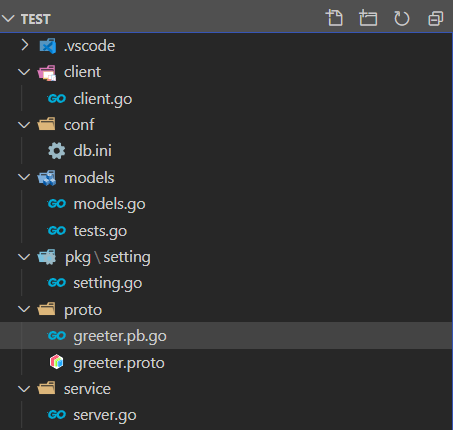
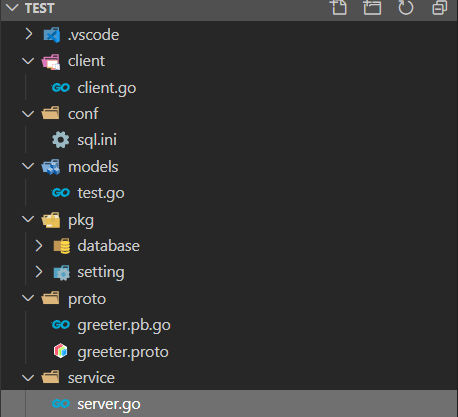
update

Changed region(s): [[0.0, 0.0, 1.0, 1.0]]

diff --git a/06.后台/04.go/01.windows环境/04.go之集成/02.go之gorm+go-ini.md b/06.后台/04.go/01.windows环境/04.go之集成/02.go之gorm+go-ini.md
@@ -69,7 +69,7 @@ func mapTo(section string, v interface{}) {
 
 </details>
 
-> models.go
+> mysql.go
 
 <details>
 <summary>代码</summary>
@@ -87,32 +87,33 @@ import (
 )
 
 
-var db *gorm.DB
+var Eloquent *gorm.DB
 
 func init() {
 	var err error
 
 	//连接mysql
-	db, err = gorm.Open(setting.DatabaseSetting.Type, fmt.Sprintf("%s:%s@tcp(%s)/%s?charset=utf8&parseTime=True&loc=Local",
+	Eloquent, err = gorm.Open(setting.DatabaseSetting.Type, fmt.Sprintf("%s:%s@tcp(%s)/%s?charset=utf8&parseTime=True&loc=Local",
 		setting.DatabaseSetting.User,
 		setting.DatabaseSetting.Password,
 		setting.DatabaseSetting.Host,
 		setting.DatabaseSetting.Name))
 	if err != nil {
-		log.Fatalf("models.Setup err: %v", err)
+		log.Fatalf("mysql connect error : %v", err)
+	}
+
+	if Eloquent.Error != nil {
+		log.Fatalf("database error: %v", Eloquent.Error)
 	}
 
 }
 
-func CloseDB() {
-	defer db.Close()
-}
 
 ```
 
 </details>
 
-> tests.go
+> test.go
 
 <details>
 <summary>代码</summary>
@@ -123,23 +124,29 @@ package models
 import (
 	"github.com/jinzhu/gorm"
 	"time"
+	orm "test/pkg/database"
 )
 
 type Test struct {
 	gorm.Model
-	Name string
+	Name string 
 	Age int
 	Birthday time.Time
 }
 
-func GetTest(name string) (*Test, error) {
+
+/**
+*作用：通过年龄查询tests表的数据
+*/
+func GetTest(age int) (*Test, error) {
 	var test Test
-	err := db.Where("Name =?", name).First(&test).Error
+	err := orm.Eloquent.Where("Age =?", age).First(&test).Error
 	if err != nil && err != gorm.ErrRecordNotFound {
 		return nil, err
 	}
 	return &test, nil
 }
+
 
 ```
 
@@ -156,11 +163,12 @@ package main
 import (
     "log"
     "fmt"
-    "test/models"
+	"test/models"
+	orm "test/pkg/database"
 )
 func main() {
-
-  test,err := models.GetTest("小猪")
+  defer orm.Eloquent.Close()
+  test,err := models.GetTest(18)
   //查询一条数据
   if err != nil {
     log.Fatalf("查询数据失败: %v",err)
@@ -180,10 +188,6 @@ func main() {
 ```shell
 
 set GO111MODULE=on
-set GOPROXY=https://goproxy.io
-
-go mod init test
-go mod tidyset GO111MODULE=on
 set GOPROXY=https://goproxy.io
 
 go mod init test

diff --git a/06.后台/04.go/01.windows环境/04.go之集成/03.go之gorm+go-ini+grpc.md b/06.后台/04.go/01.windows环境/04.go之集成/03.go之gorm+go-ini+grpc.md
@@ -4,9 +4,7 @@
 
 ***
 
-> 注意：本教程基于04.gorm之查询表数据
->       +01.go-grpc之Simple RPC(简单rpc)
->       +02.go之gorm+go-ini
+> 注意：本教程基于02.go之gorm+go-ini
 
 # <a name="go-01" href="#" >写代码</a>
 
@@ -150,10 +148,6 @@ func main() {
 ```shell
 
 set GO111MODULE=on
-set GOPROXY=https://goproxy.io
-
-go mod init test
-go mod tidyset GO111MODULE=on
 set GOPROXY=https://goproxy.io
 
 go mod init test
